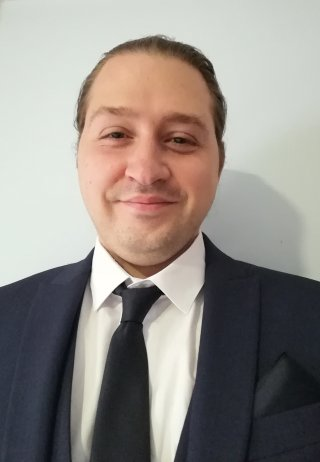
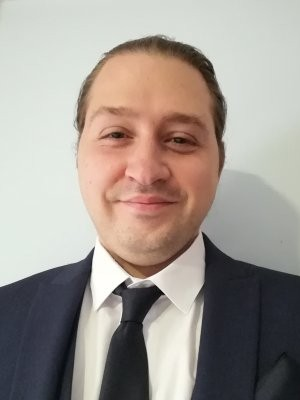
crop image and remove when screen width to short

diff --git a/index.html b/index.html
@@ -76,9 +76,8 @@
                 </div>
                 <div class="col-md-8">
                     <p>
-                        Lorem ipsum dolor sit amet, consectetur adipiscing elit. Curabitur in iaculis ex. Etiam volutpat laoreet urna. Morbi ut tortor nec nulla commodo malesuada sit amet vel lacus. Fusce eget efficitur libero. Morbi dapibus porta quam laoreet placerat. Donec
-                        eu vehicula neque. Donec viverra lorem nunc, tempus euismod eros sollicitudin ut. Quisque et tincidunt libero. Donec id pharetra justo. Proin euismod lacinia dolor, eu scelerisque justo tempus pharetra. Vivamus nunc justo, finibus
-                        ut nisl sed, euismod rhoncus nulla. Proin sed magna egestas, egestas ante et, congue eros. In consequat, mauris dapibus tincidunt suscipit, ex libero aliquet diam, at maximus risus enim non leo.
+                        I'm a Telecommunications and Information Technologies Engineer from Serbia. I have a bachelor's degree in Electrical Engineering and Computing from the School of electrical engineering in Belgrade. I mainly code in Python and Java, but I am always learning.
+                        <br/>I'm currently pursuing a master's degree in Information and communication technologies.
                     </p>
                 </div>
             </div>

diff --git a/css/styles.css b/css/styles.css
@@ -369,8 +369,8 @@ footer {
 
 .about-image {
     float: right;
-    max-width: 320px;
-    max-height: 460px;
+    max-width: 300px;
+    max-height: 400px;
     margin: 1px
 }
 
@@ -824,7 +824,10 @@ footer {
         float: none
     }
     .project-image {
-        display: none
+        display: none;
+    }
+    .about-image {
+        display: none;
     }
     .project-info {
         position: relative;
